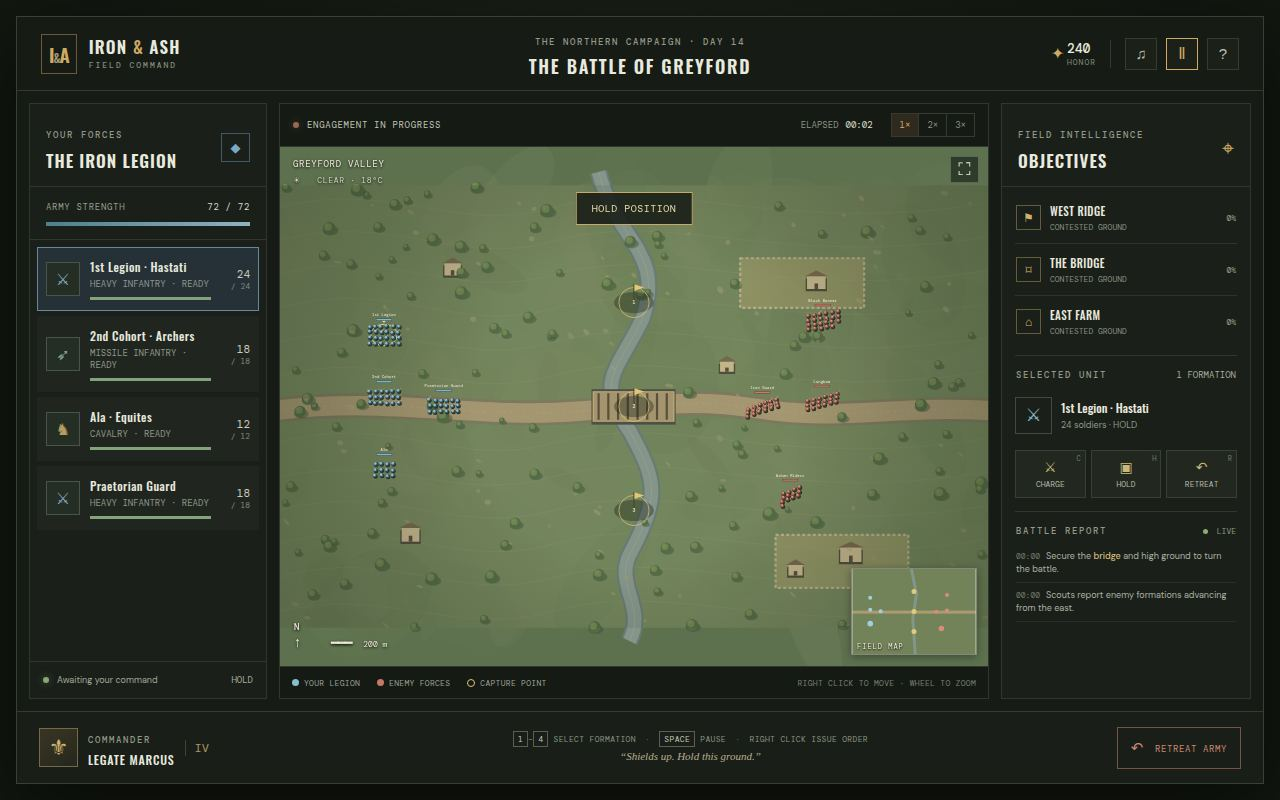
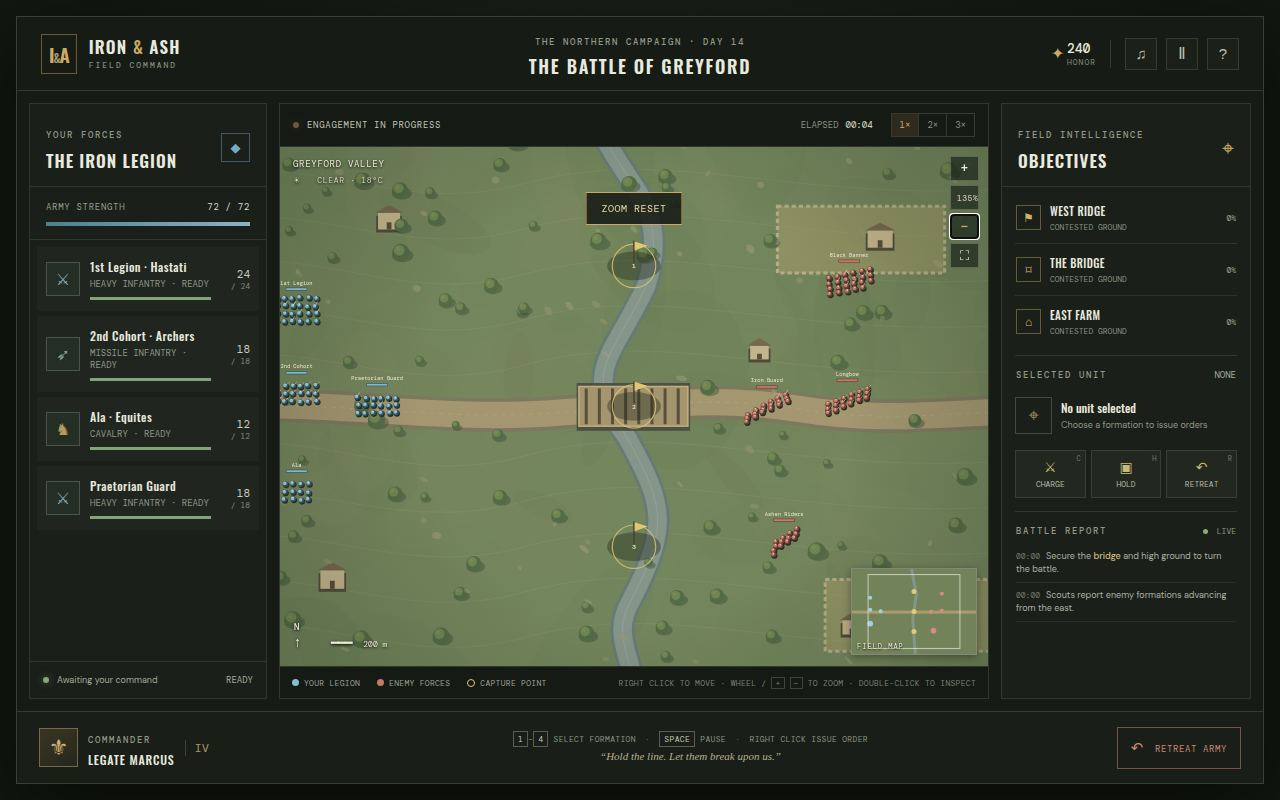
Publish static build for issue #1
Run: 43790018655
Attempt: 1
Generation: 2
Source: 9ee457d09f2103aa41d953d23ffe75f057572a15

diff --git a/style.css b/style.css
@@ -1,2 +1,9 @@
 @import url('https://fonts.googleapis.com/css2?family=DM+Mono:wght@400;500&family=DM+Sans:wght@400;500;600;700&family=Oswald:wght@500;600;700&display=swap');
 :root{--ink:#121610;--panel:#1a1f19;--panel2:#20261f;--line:#343c32;--muted:#8b9385;--paper:#e8e9df;--gold:#d0aa62;--blue:#77a9c2;--red:#c77d6a;--green:#779665;font-family:'DM Sans',sans-serif;color:var(--paper);background:#10140f;font-synthesis:none}*{box-sizing:border-box}body{margin:0;min-width:320px;min-height:100vh;background:radial-gradient(ellipse at 50% 35%,#20261c 0,#121710 70%);padding:16px}.game-shell{max-width:1600px;margin:0 auto;border:1px solid #394034;background:#161b15;min-height:calc(100vh - 32px);display:flex;flex-direction:column;box-shadow:0 24px 80px #0008}.topbar{height:74px;border-bottom:1px solid var(--line);display:flex;align-items:center;padding:0 24px;position:relative;flex-shrink:0}.brand{display:flex;align-items:center;gap:12px;color:inherit;text-decoration:none;width:250px}.brand-mark{font:600 19px Oswald;color:var(--gold);letter-spacing:-1px;border:1px solid #6b5938;padding:5px 7px}.brand-mark span{font-size:12px;color:#a89c7e}.brand-name{font:600 17px Oswald;letter-spacing:1.2px;line-height:1}.brand-name i{font-style:normal;color:var(--gold)}.brand-name small{display:block;color:#868d7e;font:500 8px 'DM Mono';letter-spacing:2px;margin-top:5px}.battle-title{text-align:center;position:absolute;left:50%;transform:translateX(-50%);white-space:nowrap}.eyebrow{font:500 9px 'DM Mono',monospace;letter-spacing:1.6px;color:#929988}.battle-title strong{display:block;font:600 18px Oswald;letter-spacing:1.7px;margin-top:3px}.top-actions{margin-left:auto;display:flex;align-items:center;gap:9px}.resource{display:grid;grid-template-columns:16px auto;grid-template-rows:17px 11px;align-items:center;padding-right:14px;margin-right:5px;border-right:1px solid var(--line);font:500 13px 'DM Mono'}.resource-icon{grid-row:1/3;color:var(--gold);font-size:16px}.resource small{font:8px 'DM Mono';color:#858d7e;letter-spacing:1px}.icon-btn{width:32px;height:32px;border:1px solid var(--line);background:#1b2019;color:#bdc3b4;font-size:15px;cursor:pointer}.icon-btn:hover,.icon-btn.active{border-color:var(--gold);color:var(--gold)}.battle-layout{display:grid;grid-template-columns:238px minmax(400px,1fr) 250px;gap:12px;padding:12px;flex:1;min-height:570px}.panel{background:var(--panel);border:1px solid #30372e;display:flex;flex-direction:column;min-height:0}.panel-heading{display:flex;align-items:center;justify-content:space-between;padding:18px 16px 13px;border-bottom:1px solid #30372e}.panel-heading h2{margin:5px 0 0;font:600 17px Oswald;letter-spacing:1px}.faction-badge{width:29px;height:29px;border:1px solid #425867;color:var(--blue);display:grid;place-items:center;font-size:13px}.army-strength{padding:14px 16px 13px;border-bottom:1px solid #30372e}.strength-label{display:flex;justify-content:space-between;font:9px 'DM Mono';color:#969e8f;letter-spacing:.7px}.strength-label b{color:#d8dacd;font-weight:400}.strength-bar{height:4px;background:#353a32;margin-top:9px}.strength-bar span{height:100%;display:block;background:linear-gradient(90deg,#4f7e91,#8db3bd);transition:width .25s}.unit-list{padding:7px;display:flex;flex-direction:column;gap:5px;flex:1;overflow:auto}.unit-card{display:grid;grid-template-columns:35px 1fr 30px;align-items:center;gap:9px;padding:10px 8px;background:#20261f;border:1px solid transparent;cursor:pointer;transition:.15s;position:relative}.unit-card:hover{background:#272e25}.unit-card.selected{border-color:#68889a;background:#263137}.unit-card.routed{opacity:.55}.unit-icon{height:34px;width:34px;display:grid;place-items:center;border:1px solid #49554b;font-size:16px;background:#252e25}.unit-card.cavalry .unit-icon{color:#b79c62}.unit-card.archers .unit-icon{color:#86a7a2}.unit-card.infantry .unit-icon{color:#84adc1}.unit-details strong{display:block;font:500 12px Oswald;letter-spacing:.45px}.unit-details small{display:block;font:9px 'DM Mono';color:#8e9788;margin-top:3px}.unit-size{font:11px 'DM Mono';text-align:right;color:#c5cabe}.unit-health{height:3px;background:#3a4038;margin-top:7px}.unit-health i{display:block;height:100%;background:#83a37a}.unit-card.enemy-low .unit-health i{background:#c7896c}.roster-note{padding:12px 13px;border-top:1px solid #30372e;display:flex;align-items:center;gap:8px;font-size:9px;color:#a2a99a}.status-dot,.live-dot{height:6px;width:6px;border-radius:50%;background:#89a875;box-shadow:0 0 8px #89a87588}.mono{font:9px 'DM Mono';color:#a7ad9e;margin-left:auto}.field-wrap{min-width:0;display:flex;flex-direction:column;background:#151a14;border:1px solid #30372e}.field-topline{height:43px;display:flex;align-items:center;padding:0 13px;gap:18px;border-bottom:1px solid #30372e;flex-shrink:0}.battle-state{display:flex;align-items:center;gap:8px;font:9px 'DM Mono';letter-spacing:.7px;color:#c1c6b8}.live-dot{background:#c48069;box-shadow:0 0 8px #c4806977;animation:pulse 1.4s infinite}.battle-clock{margin-left:auto;display:flex;gap:7px;align-items:center;font:9px 'DM Mono';color:#8b9385}.battle-clock b{color:#e0e1d4;font-weight:400}.speed-control{display:flex;border:1px solid #343b32}.speed{border:0;border-left:1px solid #343b32;background:transparent;color:#899183;padding:5px 8px;font:9px 'DM Mono';cursor:pointer}.speed:first-child{border:0}.speed.active{color:var(--gold);background:#302a1e}.map-frame{position:relative;flex:1;min-height:380px;overflow:hidden;background:#5d714f}.map-frame canvas{width:100%;height:100%;display:block;cursor:crosshair;touch-action:none}.map-overlay{position:absolute;z-index:2;pointer-events:none;color:#eee8d7;text-shadow:0 1px 3px #000;font:9px 'DM Mono';letter-spacing:.7px}.top-left{left:13px;top:11px;display:flex;flex-direction:column;gap:5px}.map-weather{color:#d5d4bd;font-size:8px}.top-right{top:9px;right:9px;pointer-events:auto}.top-right button{background:#162018a8;border:1px solid #e8e4cc44;color:#ece9d8;font-size:17px;width:29px;height:27px;cursor:pointer}.bottom-left{left:14px;bottom:15px;display:grid;grid-template-columns:13px 15px;align-items:center;font-weight:500}.north{font-size:9px}.north-arrow{grid-row:2;font-size:14px}.scale{grid-column:3;grid-row:2;font-size:13px;letter-spacing:-1px;margin-left:9px}.scale small{letter-spacing:0;font:8px 'DM Mono';margin-left:5px}.bottom-right{right:11px;bottom:11px}.minimap{width:126px;height:87px;background:#26372d;border:1px solid #d5d0ba88;position:relative;box-shadow:0 2px 8px #0005}.minimap canvas{width:100%;height:100%}.mini-label{position:absolute;bottom:3px;left:5px;font:7px 'DM Mono';letter-spacing:1px;color:#f2ecdc;text-shadow:0 1px 2px black}.map-legend{height:32px;border-top:1px solid #30372e;display:flex;align-items:center;gap:17px;padding:0 12px;color:#9da494;font:8px 'DM Mono';letter-spacing:.3px;flex-shrink:0}.map-legend span{display:flex;align-items:center;gap:5px;white-space:nowrap}.legend-dot{width:7px;height:7px;border-radius:50%;display:inline-block}.legend-dot.blue{background:#86bdcf}.legend-dot.red{background:#c67867}.legend-ring{width:8px;height:8px;border:1px solid #e2c36d;border-radius:50%}.map-hint{margin-left:auto!important;color:#788173;font-size:8px!important}.intel-icon{font-size:21px;color:var(--gold)}.objective-list{padding:5px 13px 8px}.objective{display:grid;grid-template-columns:26px 1fr auto;align-items:center;gap:8px;padding:11px 1px;border-bottom:1px solid #2d342c}.objective:last-child{border:0}.objective-icon{height:25px;width:25px;border:1px solid #655a39;color:#d0b367;display:grid;place-items:center;font-size:12px}.objective strong{display:block;font:500 11px Oswald;letter-spacing:.4px}.objective small{display:block;margin-top:3px;font:8px 'DM Mono';color:#899284}.objective-state{font:8px 'DM Mono';color:#a4a892}.objective.owned .objective-icon{color:var(--blue);border-color:#547084}.objective.enemy .objective-icon{color:var(--red);border-color:#714c42}.intel-divider{height:1px;background:#30372e;margin:0 13px}.command-head,.log-head{display:flex;align-items:center;padding:13px 14px 7px}.command-head .mono{margin-left:auto}.selected-unit{margin:3px 13px 11px;min-height:48px;display:flex;align-items:center;gap:9px}.empty-insignia{width:37px;height:37px;display:grid;place-items:center;border:1px solid #424a3e;color:#a08b5b;font-size:18px}.selected-unit strong{display:block;font:500 12px Oswald}.selected-unit small{display:block;color:#8f9888;font-size:9px;margin-top:3px}.unit-actions{display:grid;grid-template-columns:repeat(3,1fr);gap:5px;padding:0 13px 13px}.unit-actions button{height:48px;position:relative;background:#222820;border:1px solid #383f35;color:#cab879;font-size:14px;cursor:pointer}.unit-actions button:hover{border-color:#9c8551;background:#2c3024}.unit-actions button span{display:block;font:8px 'DM Mono';color:#b4b8aa;margin-top:4px}.unit-actions kbd{position:absolute;right:4px;top:3px;font:7px 'DM Mono';color:#727d6d}.report-live{margin-left:auto;color:#8f9b84;font:8px 'DM Mono'}.report-live i{display:inline-block;width:5px;height:5px;background:#8cae75;border-radius:50%;margin-right:4px}.battle-log{padding:0 14px 10px;overflow:auto;flex:1;min-height:100px}.log-entry{font-size:9px;color:#abb1a3;padding:6px 0;border-bottom:1px solid #282f27;line-height:1.45}.log-entry time{font:8px 'DM Mono';color:#727d6d;margin-right:6px}.log-entry b{color:#d6bd7d;font-weight:500}.command-bar{min-height:72px;border-top:1px solid var(--line);display:flex;align-items:center;padding:10px 22px;gap:22px;background:#191e18}.commander{display:flex;align-items:center;gap:10px;min-width:225px}.commander-portrait{height:39px;width:39px;display:grid;place-items:center;border:1px solid #796845;color:#d0b36b;background:linear-gradient(145deg,#393524,#25271d);font-size:22px}.commander strong{display:block;font:500 12px Oswald;letter-spacing:.8px;margin-top:3px}.commander-rank{color:#ad9765;border-left:1px solid #414438;padding-left:9px;font:12px 'DM Mono'}.command-center{text-align:center;flex:1}.command-tip{display:block;font:8px 'DM Mono';color:#8c9585;letter-spacing:.35px}.command-tip kbd,.help-grid kbd{border:1px solid #59604f;color:#c8c9b8;padding:2px 4px;font:8px 'DM Mono'}.command-tip i{color:#685f44;font-style:normal;margin:0 4px}.command-quote{display:block;font:italic 11px Georgia;color:#b8ae8e;margin-top:6px}.retreat-btn{background:transparent;border:1px solid #755247;color:#cb8973;padding:10px 13px;font:9px 'DM Mono';letter-spacing:.6px;cursor:pointer;white-space:nowrap}.retreat-btn:hover{background:#3a2621}.retreat-btn span{font-size:15px;vertical-align:-1px;margin-right:5px}.toast{position:absolute;top:45px;left:50%;transform:translate(-50%,-6px);background:#161b15dd;border:1px solid #c7aa66;color:#eadba8;padding:9px 15px;font:10px 'DM Mono';letter-spacing:.5px;opacity:0;transition:.2s;pointer-events:none;z-index:4}.toast.show{opacity:1;transform:translate(-50%,0)}.battle-end{position:absolute;inset:0;z-index:5;display:flex;flex-direction:column;align-items:center;justify-content:center;background:#10150edb;text-align:center;backdrop-filter:blur(3px)}.battle-end.hidden{display:none}.end-kicker{font:9px 'DM Mono';letter-spacing:2px;color:#c9b06f}.battle-end h2{font:700 52px Oswald;letter-spacing:3px;margin:8px 0;color:#e3c36d;text-shadow:0 5px 22px #000}.battle-end p{font-size:13px;color:#c3c6b7;margin:0 0 22px}.primary-btn{border:1px solid #b59858;background:#b59858;color:#1b1b15;padding:11px 19px;font:600 10px 'DM Mono';letter-spacing:1px;cursor:pointer}.primary-btn:hover{background:#d1b978}.primary-btn span{font-size:15px;margin-left:9px}.modal-backdrop{position:fixed;inset:0;z-index:10;background:#080b08d9;display:grid;place-items:center;padding:18px}.modal-backdrop.hidden{display:none}.help-card{width:min(540px,100%);background:#1b211a;border:1px solid #60604a;padding:30px;position:relative;box-shadow:0 24px 90px #000a}.modal-close{position:absolute;right:15px;top:12px;background:none;border:0;color:#b5bcac;font-size:25px;cursor:pointer}.help-card h2{font:600 27px Oswald;letter-spacing:1px;margin:7px 0}.help-card>p{font-size:12px;line-height:1.6;color:#afb5a8}.help-grid{display:grid;grid-template-columns:1fr 1fr;gap:17px 22px;margin:22px 0}.help-grid>div{border-top:1px solid #41483c;padding-top:10px}.help-grid>div>span{font:9px 'DM Mono';color:#d0b36b;letter-spacing:1px}.help-grid p{font-size:11px;line-height:1.6;color:#aab1a3;margin:7px 0 0}.help-grid kbd{display:inline-block}.help-card>.primary-btn{width:100%}.fullscreen .field-wrap{position:fixed;inset:10px;z-index:20}.fullscreen .map-frame{min-height:0}@keyframes pulse{50%{opacity:.4}}@media(max-width:1100px){body{padding:8px}.game-shell{min-height:calc(100vh - 16px)}.battle-layout{grid-template-columns:205px minmax(350px,1fr);min-height:590px}.intel{grid-column:1/-1;display:grid;grid-template-columns:1fr 1fr 1fr;grid-template-rows:auto 1fr;min-height:155px}.intel>.panel-heading{grid-column:1;grid-row:1}.intel>.objective-list{grid-column:1;grid-row:2}.intel>.intel-divider:first-of-type{display:none}.intel>.command-head,.intel>.selected-unit,.intel>.unit-actions{grid-column:2}.intel>.command-head{grid-row:1}.intel>.selected-unit{grid-row:2}.intel>.unit-actions{grid-row:2;align-self:end;margin-left:135px}.intel>.intel-divider:nth-of-type(2){display:none}.intel>.log-head{grid-column:3;grid-row:1}.intel>.battle-log{grid-column:3;grid-row:2}.panel-heading{padding:12px}.roster-note{padding:9px}.unit-list{max-height:430px}}@media(max-width:700px){body{padding:0}.game-shell{min-height:100vh;border:0}.topbar{height:60px;padding:0 12px}.brand{width:auto}.brand-name{font-size:14px}.brand-mark{font-size:15px}.battle-title{display:none}.resource{padding-right:7px;margin-right:0}.top-actions{gap:5px}.icon-btn{width:29px;height:29px}.battle-layout{display:flex;flex-direction:column;padding:7px;gap:7px;min-height:0}.field-wrap{order:0;min-height:55vh}.map-frame{min-height:320px}.map-legend{gap:9px;font-size:7px}.map-hint{display:none!important}.roster{order:1;min-height:0}.roster .panel-heading{padding:11px 13px}.unit-list{display:grid;grid-template-columns:1fr 1fr;overflow:visible}.unit-card{padding:8px 6px;gap:6px;grid-template-columns:29px 1fr 23px}.unit-icon{height:29px;width:29px}.unit-details strong{font-size:10px}.unit-details small{font-size:8px}.unit-size{font-size:9px}.roster-note{display:none}.army-strength{padding:10px 13px}.intel{order:2;display:flex;min-height:auto}.intel .panel-heading{display:flex}.objective-list{display:grid;grid-template-columns:repeat(3,1fr);padding:0 8px 9px}.objective{grid-template-columns:23px 1fr;gap:5px;padding:6px 3px}.objective-state{grid-column:2}.objective-icon{height:22px;width:22px}.objective strong{font-size:9px}.objective small{font-size:7px}.intel>.intel-divider{display:block!important}.selected-unit{min-height:42px}.unit-actions{margin:0!important}.battle-log{min-height:50px;max-height:100px}.command-bar{padding:9px 11px;gap:9px;min-height:62px}.commander{min-width:0;gap:7px}.commander-portrait{width:32px;height:32px}.commander strong{font-size:10px}.commander .eyebrow{font-size:7px}.commander-rank,.command-center{display:none}.retreat-btn{margin-left:auto;padding:8px;font-size:8px}.bottom-right{right:7px;bottom:7px}.minimap{width:94px;height:65px}.help-card{padding:24px 20px}.help-grid{gap:12px}.field-topline{padding:0 8px;gap:9px}.battle-state{font-size:8px}.speed{padding:5px 6px}}@media(max-height:700px) and (min-width:701px){.battle-layout{min-height:0}.unit-list{max-height:40vh}.battle-log{min-height:60px}.map-frame{min-height:300px}}
+/* --- zoom controls --- */
+.zoom-cluster{display:flex;flex-direction:column;gap:4px;align-items:stretch}
+.zoom-cluster button{background:#162018a8;border:1px solid #e8e4cc44;color:#ece9d8;font:600 13px 'DM Mono';width:29px;height:25px;cursor:pointer;pointer-events:auto;transition:border-color .15s,color .15s}
+.zoom-cluster button:hover{border-color:var(--gold);color:var(--gold)}
+.zoom-cluster .zoom-readout{font-size:8px;letter-spacing:.5px;color:#c9c4ad}
+.zoom-cluster .zoom-readout.limit{color:#d0aa62;border-color:#d0aa6266}
+.map-hint kbd{font:inherit;padding:0 3px;border:1px solid #ffffff2e}

diff --git a/game.js b/game.js
@@ -5,6 +5,8 @@
   const W = 1600, H = 1000, $ = id => document.getElementById(id);
   let seed = 9147; const rand = () => { seed = (seed * 1664525 + 1013904223) >>> 0; return seed / 4294967296; };
   const camera = { x: W / 2, y: H / 2, zoom: 1 }, selected = new Set();
+  const ZOOM_MIN = .72, ZOOM_MAX = 2.6, ZOOM_STEP = 1.35;
+  let zoomTarget = 1, zoomAnchor = null;
   let scale = 1, cw = 0, ch = 0, last = performance.now(), elapsed = 0, running = true, speed = 1, playerScore = 0, enemyScore = 0, ended = false, honor = 240, drag = null, toastTimer = 0, soundOn = false;
   const names = ['1st Legion · Hastati', '2nd Cohort · Archers', 'Ala · Equites', 'Praetorian Guard'];
   const types = ['infantry','archers','cavalry','infantry'];
@@ -28,7 +30,7 @@
     units.push(makeUnit('blue',0,235,345,24,names[0],'infantry'),makeUnit('blue',1,235,485,18,names[1],'archers'),makeUnit('blue',2,235,650,12,names[2],'cavalry'),makeUnit('blue',3,370,505,18,names[3],'infantry'));
     units.push(makeUnit('red',0,1365,335,23,'Black Banner · Raiders','infantry'),makeUnit('red',1,1365,490,18,'Longbow · Yeomen','archers'),makeUnit('red',2,1365,655,13,'Ashen Riders · Horse','cavalry'),makeUnit('red',3,1230,510,18,'Iron Guard · Men-at-arms','infantry'));
     units.filter(u=>u.team==='red').forEach((u,i)=>{u.target={x:850+rand()*120,y:[260,500,740,500][i]};u.mode='advance'});
-    camera.x=W/2;camera.y=H/2;camera.zoom=1;playerScore=enemyScore=0;elapsed=0;running=true;ended=false;speed=1;last=performance.now();
+    camera.x=W/2;camera.y=H/2;camera.zoom=1;zoomTarget=1;zoomAnchor=null;playerScore=enemyScore=0;elapsed=0;running=true;ended=false;speed=1;last=performance.now();updateZoomUI();
     $('battleEnd').classList.add('hidden');$('battleStatus').textContent='ENGAGEMENT IN PROGRESS';$('pauseBtn').textContent='Ⅱ';$('honor').textContent='240';
     document.querySelectorAll('.speed').forEach(b=>b.classList.toggle('active',b.dataset.speed==='1'));
     $('battleLog').innerHTML=''; log('Scouts report enemy formations advancing from the east.');log('Secure the <b>bridge</b> and high ground to turn the battle.'); toast('FIELD ORDERS RECEIVED'); renderUI();
@@ -130,7 +132,20 @@
   canvas.addEventListener('pointermove',e=>{if(!drag)return;const p=toWorld(...Object.values(pointer(e)));drag.x=Math.min(drag.startX,p.x);drag.y=Math.min(drag.startY,p.y);drag.w=Math.abs(drag.startX-p.x);drag.h=Math.abs(drag.startY-p.y)});
   canvas.addEventListener('pointerup',e=>{if(!drag)return;const d=drag;drag=null;const p=pointer(e),w=toWorld(p.x,p.y);if(Math.hypot(p.x-d.screenX,p.y-d.screenY)>8){selected.clear();units.filter(u=>u.team==='blue'&&alive(u)).forEach(u=>{const c=center(u);if(c.x>=d.x&&c.x<=d.x+d.w&&c.y>=d.y&&c.y<=d.y+d.h)selected.add(u)});renderUI();return}let nearest=null,dist=Infinity;for(const u of units){if(u.team!=='blue'||!alive(u))continue;const c=center(u),dd=distance(w,c);if(dd<dist){dist=dd;nearest=u}}if(nearest&&dist<55)selectOnly(nearest);else if(nearest&&dist<95){selected.add(nearest);renderUI()}else selectOnly(null)});
   canvas.addEventListener('contextmenu',e=>{e.preventDefault();const p=pointer(e),w=toWorld(p.x,p.y);let target=null,dist=Infinity;for(const u of units){if(u.team==='blue'||!alive(u))continue;const d=distance(w,center(u));if(d<dist){target=u;dist=d}}const group=[...selected];if(!group.length){toast('SELECT A FORMATION FIRST');return}if(target&&dist<55){group.forEach(u=>{u.mode='engage';u.attackTarget=target;u.target=center(target)});$('orderStatus').textContent='ATTACK';$('commanderQuote').textContent='“Put them to the sword!”';toast('ATTACKING ENEMY FORMATION');renderUI()}else order('move',w)});
-  canvas.addEventListener('wheel',e=>{e.preventDefault();const before=toWorld(...Object.values(pointer(e)));camera.zoom=clamp(camera.zoom*(e.deltaY<0?1.12:.89),.72,2.1);scale=Math.min(cw/W,ch/H)*camera.zoom;const after=toWorld(...Object.values(pointer(e)));camera.x+=before.x-after.x;camera.y+=before.y-after.y},{passive:false});
+  canvas.addEventListener('wheel',e=>{e.preventDefault();const p=pointer(e);zoomAt(camera.zoom*(e.deltaY<0?ZOOM_STEP:1/ZOOM_STEP),p.x,p.y)},{passive:false});
+  canvas.addEventListener('dblclick',e=>{e.preventDefault();const p=pointer(e);zoomAt(camera.zoom<1.55?1.9:1,p.x,p.y)});
+  function zoomAt(z,ax,ay){zoomTarget=clamp(z,ZOOM_MIN,ZOOM_MAX);zoomAnchor={x:ax??cw/2,y:ay??ch/2};updateZoomUI()}
+  function stepZoom(){
+    if(zoomAnchor==null)return;
+    if(Math.abs(zoomTarget-camera.zoom)<.002){camera.zoom=zoomTarget;scale=Math.min(cw/W,ch/H)*camera.zoom;zoomAnchor=null;updateZoomUI();return}
+    const before=toWorld(zoomAnchor.x,zoomAnchor.y);
+    camera.zoom+=(zoomTarget-camera.zoom)*.24;
+    scale=Math.min(cw/W,ch/H)*camera.zoom;
+    const after=toWorld(zoomAnchor.x,zoomAnchor.y);
+    camera.x+=before.x-after.x;camera.y+=before.y-after.y;
+    updateZoomUI();
+  }
+  function updateZoomUI(){const el=$('zoomLevel');if(!el)return;el.textContent=`${Math.round(camera.zoom*100)}%`;el.classList.toggle('limit',Math.abs(zoomTarget-ZOOM_MIN)<.001||Math.abs(zoomTarget-ZOOM_MAX)<.001)}
   $('minimap').addEventListener('pointerdown',e=>{const r=mini.getBoundingClientRect();camera.x=(e.clientX-r.left)/r.width*W;camera.y=(e.clientY-r.top)/r.height*H});
   document.querySelectorAll('.unit-actions button').forEach(b=>b.onclick=()=>order(b.dataset.action==='charge'?'charge':b.dataset.action==='hold'?'hold':'retreat'));
   document.querySelectorAll('.speed').forEach(b=>b.onclick=()=>{speed=Number(b.dataset.speed);document.querySelectorAll('.speed').forEach(x=>x.classList.toggle('active',x===b));toast(`${speed}× SPEED`)});
@@ -139,9 +154,16 @@
   $('helpBtn').onclick=()=>$('helpModal').classList.remove('hidden');$('closeHelp').onclick=$('understood').onclick=()=>$('helpModal').classList.add('hidden');$('helpModal').addEventListener('click',e=>{if(e.target===$('helpModal'))$('helpModal').classList.add('hidden')});
   $('soundBtn').onclick=()=>{soundOn=!soundOn;$('soundBtn').classList.toggle('active',soundOn);toast(soundOn?'FIELD AUDIO ON':'FIELD AUDIO OFF')};
   $('mapExpand').onclick=()=>{$('field-wrap').classList.toggle('fullscreen')};
+  $('zoomIn').onclick=()=>zoomAt(zoomTarget*ZOOM_STEP);
+  $('zoomOut').onclick=()=>zoomAt(zoomTarget/ZOOM_STEP);
+  $('zoomLevel').onclick=()=>{zoomAt(1);toast('ZOOM RESET')};
   document.querySelector('.field-wrap').id='field-wrap';
-  window.addEventListener('keydown',e=>{if(e.code==='Space'){e.preventDefault();togglePause();return}if(e.repeat)return;if(e.key>='1'&&e.key<='4'){selectOnly(units.filter(u=>u.team==='blue')[Number(e.key)-1]);return}if(e.key.toLowerCase()==='c')order('charge');if(e.key.toLowerCase()==='h')order('hold');if(e.key.toLowerCase()==='r')order('retreat');if(e.key==='Escape'){$('helpModal').classList.add('hidden');$('field-wrap').classList.remove('fullscreen')}});
+  window.addEventListener('keydown',e=>{if(e.code==='Space'){e.preventDefault();togglePause();return}
+    if(e.key==='+'||e.key==='='){zoomAt(zoomTarget*ZOOM_STEP);return}
+    if(e.key==='-'||e.key==='_'){zoomAt(zoomTarget/ZOOM_STEP);return}
+    if(e.key==='0'){zoomAt(1);toast('ZOOM RESET');return}
+    if(e.repeat)return;if(e.key>='1'&&e.key<='4'){selectOnly(units.filter(u=>u.team==='blue')[Number(e.key)-1]);return}if(e.key.toLowerCase()==='c')order('charge');if(e.key.toLowerCase()==='h')order('hold');if(e.key.toLowerCase()==='r')order('retreat');if(e.key==='Escape'){$('helpModal').classList.add('hidden');$('field-wrap').classList.remove('fullscreen')}});
   window.addEventListener('resize',resize);
-  function frame(now){const dt=clamp((now-last)/1000,0,.05);last=now;if(running&&!ended)simulate(dt);$('clock').textContent=clockText();drawMap();if(Math.floor(now/280)!==Math.floor((now-dt*1000)/280))renderUI();requestAnimationFrame(frame)}
+  function frame(now){const dt=clamp((now-last)/1000,0,.05);last=now;if(running&&!ended)simulate(dt);stepZoom();$('clock').textContent=clockText();drawMap();if(Math.floor(now/280)!==Math.floor((now-dt*1000)/280))renderUI();requestAnimationFrame(frame)}
   resize();reset();$('helpModal').classList.add('hidden');requestAnimationFrame(frame);
 })();

diff --git a/index.html b/index.html
@@ -26,8 +26,8 @@
       </aside>
       <section class="field-wrap">
         <div class="field-topline"><div class="battle-state"><span class="live-dot"></span><span id="battleStatus">ENGAGEMENT IN PROGRESS</span></div><div class="battle-clock"><span>ELAPSED</span><b id="clock">00:00</b></div><div class="speed-control"><button data-speed="1" class="speed active">1×</button><button data-speed="2" class="speed">2×</button><button data-speed="3" class="speed">3×</button></div></div>
-        <div class="map-frame"><canvas id="battlefield" aria-label="Top-down battlefield"></canvas><div class="map-overlay top-left"><span class="map-coord">GREYFORD VALLEY</span><span class="map-weather">☀ &nbsp; CLEAR · 18°C</span></div><div class="map-overlay top-right"><button id="mapExpand" title="Toggle fullscreen">⛶</button></div><div class="map-overlay bottom-left"><span class="north">N</span><span class="north-arrow">↑</span><span class="scale">━━━ <small>200 m</small></span></div><div class="map-overlay bottom-right"><div class="minimap" id="minimap"><canvas id="miniCanvas"></canvas><span class="mini-label">FIELD MAP</span></div></div><div class="toast" id="toast"></div><div class="battle-end hidden" id="battleEnd"><div class="end-kicker">THE FIELD IS DECIDED</div><h2 id="endTitle">VICTORY</h2><p id="endCopy">Greyford will remember this day.</p><button id="restartBtn" class="primary-btn">FIGHT AGAIN <span>↻</span></button></div></div>
-        <div class="map-legend"><span><i class="legend-dot blue"></i> YOUR LEGION</span><span><i class="legend-dot red"></i> ENEMY FORCES</span><span><i class="legend-ring"></i> CAPTURE POINT</span><span class="map-hint">RIGHT CLICK TO MOVE · WHEEL TO ZOOM</span></div>
+        <div class="map-frame"><canvas id="battlefield" aria-label="Top-down battlefield"></canvas><div class="map-overlay top-left"><span class="map-coord">GREYFORD VALLEY</span><span class="map-weather">☀ &nbsp; CLEAR · 18°C</span></div><div class="map-overlay top-right"><div class="zoom-cluster"><button id="zoomIn" title="Zoom in (+)" aria-label="Zoom in">+</button><button id="zoomLevel" class="zoom-readout" title="Reset zoom (0)">100%</button><button id="zoomOut" title="Zoom out (−)" aria-label="Zoom out">−</button><button id="mapExpand" title="Toggle fullscreen">⛶</button></div></div><div class="map-overlay bottom-left"><span class="north">N</span><span class="north-arrow">↑</span><span class="scale">━━━ <small>200 m</small></span></div><div class="map-overlay bottom-right"><div class="minimap" id="minimap"><canvas id="miniCanvas"></canvas><span class="mini-label">FIELD MAP</span></div></div><div class="toast" id="toast"></div><div class="battle-end hidden" id="battleEnd"><div class="end-kicker">THE FIELD IS DECIDED</div><h2 id="endTitle">VICTORY</h2><p id="endCopy">Greyford will remember this day.</p><button id="restartBtn" class="primary-btn">FIGHT AGAIN <span>↻</span></button></div></div>
+        <div class="map-legend"><span><i class="legend-dot blue"></i> YOUR LEGION</span><span><i class="legend-dot red"></i> ENEMY FORCES</span><span><i class="legend-ring"></i> CAPTURE POINT</span><span class="map-hint">RIGHT CLICK TO MOVE · WHEEL / <kbd>+</kbd><kbd>−</kbd> TO ZOOM · DOUBLE-CLICK TO INSPECT</span></div>
       </section>
       <aside class="intel panel"><div class="panel-heading"><div><span class="eyebrow">FIELD INTELLIGENCE</span><h2>OBJECTIVES</h2></div><span class="intel-icon">⌖</span></div><div class="objective-list" id="objectiveList"></div><div class="intel-divider"></div><div class="command-head"><span class="eyebrow">SELECTED UNIT</span><span class="mono" id="selectedCount">NONE</span></div><div class="selected-unit" id="selectedInfo"><div class="empty-insignia">⌖</div><div><strong>No unit selected</strong><small>Choose a formation to issue orders</small></div></div><div class="unit-actions" id="unitActions"><button data-action="charge" title="Charge selected formation">⚔<span>CHARGE</span><kbd>C</kbd></button><button data-action="hold" title="Hold position">▣<span>HOLD</span><kbd>H</kbd></button><button data-action="retreat" title="Retreat selected formation">↶<span>RETREAT</span><kbd>R</kbd></button></div><div class="intel-divider"></div><div class="log-head"><span class="eyebrow">BATTLE REPORT</span><span class="report-live"><i></i> LIVE</span></div><div class="battle-log" id="battleLog"></div></aside>
     </section>
